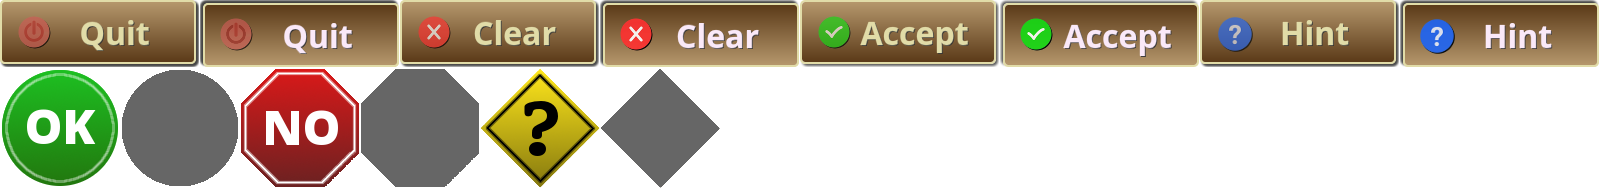
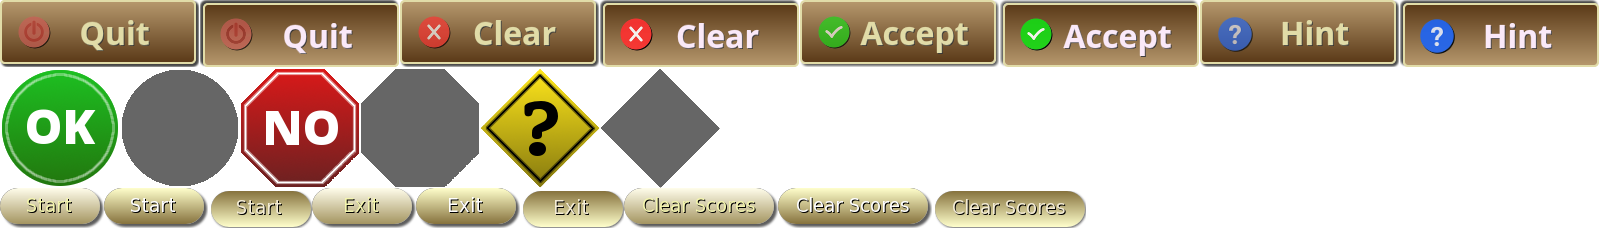
Switch title screen to TTF fonts

diff --git a/src/gfx.c b/src/gfx.c
@@ -810,8 +810,9 @@ gfx_display_scores() {
 
    // Show scor
    
-   fnt_print_string(screen,CURRWORD_HD_X+5+hx0,1+hy0,cwscore_s,makecol(255,255,224),-1,makecol(0,0,0));
-   fnt_print_string(screen,CURRWORD_HD_X+436+hx0,1+hy0,totscore_s,makecol(255,255,224),-1,makecol(0,0,0));
+//   fnt_print_string(screen,CURRWORD_HD_X+5+hx0,1+hy0,cwscore_s,makecol(255,255,224),-1,makecol(0,0,0));
+   fnt_print_string(screen,CURRWORD_HD_X+112+hx0,6+hy0,cwscore_s,makecol(255,255,224),-1,makecol(0,0,0));
+   fnt_print_string(screen,CURRWORD_HD_X+1094+hx0,6+hy0,totscore_s,makecol(255,255,224),-1,makecol(0,0,0));
    
    ActiveFont = compfont;
 }
@@ -1165,7 +1166,7 @@ void gfx_load_bitmaps() {
    widgethdbmp=load_bitmap(bmpf,p);
    sprintf(bmpf,"%s%cgfx%cwwbg.pcx",datadir,mysep,mysep);
    bgbmp=load_bitmap(bmpf,p);
-   sprintf(bmpf,"%s%cgfx%cwwbghd.pcx",datadir,mysep,mysep);
+   sprintf(bmpf,"%s%cgfx%cwwbghd_n.pcx",datadir,mysep,mysep);
    bghdbmp=load_bitmap(bmpf,p);
    sprintf(bmpf,"%s%cgfx%cbanner.pcx",datadir,mysep,mysep);
    banrbmp=load_bitmap(bmpf,p);
@@ -1288,6 +1289,13 @@ gfx_display_hs(int tno) {
    hline(screen,hx+20+hx0,hy+39+hy0,hx+480+hx0,makecol(250,230,64));
    hline(screen,hx+20+hx0,hy+40+hy0,hx+480+hx0,makecol(180,30,32));
 #endif
+   fnt_setactive(TTfont);
+   //   ActiveFont = TTfont;
+   TTfont->scale_w=28;
+   TTfont->scale_h=32;
+//   ActiveFont->scale_w=32;
+//   ActiveFont->scale_h=32;
+
    for(i=1;i<=nscs;i++) {
       hs_getfield(sname,tno,i,"name");
       hs_getfield(sdate,tno,i,"date");
@@ -1295,14 +1303,26 @@ gfx_display_hs(int tno) {
       txtcolor=makecol(240,230,200);
       if(tno==2 || tno==4) {
 	 hs_getfield(sdetail,tno,i,"detail");
-	 sprintf(outln,"  %2d) %-18s%-12s%-18s%4s\n",i,sname,sdetail,sdate,sscore);
+//	 sprintf(outln,"  %2d) %-18s%-12s%-18s%4s\n",i,sname,sdetail,sdate,sscore);
+	 sprintf(outln,"%2d)",i);
+	 fnt_print_string(screen,hx+24+hx0,hy+32+(i*32)+hy0,outln,txtcolor,-1,-1);
+	 fnt_print_string(screen,hx+80+hx0,hy+32+(i*32)+hy0,sname,txtcolor,-1,-1);
+	 fnt_print_string(screen,hx+280+hx0,hy+32+(i*32)+hy0,sdetail,txtcolor,-1,-1);
+	 fnt_print_string(screen,hx+640+hx0,hy+32+(i*32)+hy0,sdate,txtcolor,-1,-1);
+	 fnt_print_string(screen,hx+1080+hx0,hy+32+(i*32)+hy0,sscore,txtcolor,-1,-1);
+	 //	 fnt_print_string(screen,hx+hx0,hy+32+(i*32)+hy0,outln,txtcolor,-1,-1);
       } else {
 	 if(atoi(sscore)==totscore && totscore>0) 
 	   txtcolor=makecol(255,255,100);
-	 sprintf(outln,"  %2d) %-20s %-20s %10s\n",i,sname,sdate,sscore);
+//	 sprintf(outln,"  %2d) %-20s %-20s %10s\n",i,sname,sdate,sscore);
+	 sprintf(outln,"%2d)",i);
+	 fnt_print_string(screen,hx+24+hx0,hy+32+(i*32)+hy0,outln,txtcolor,-1,-1);
+	 fnt_print_string(screen,hx+80+hx0,hy+32+(i*32)+hy0,sname,txtcolor,-1,-1);
+	 fnt_print_string(screen,hx+480+hx0,hy+32+(i*32)+hy0,sdate,txtcolor,-1,-1);
+	 fnt_print_string(screen,hx+1080+hx0,hy+32+(i*32)+hy0,sscore,txtcolor,-1,-1);
       }
-      fnt_print_string(screen,hx+hx0,hy+32+(i*16)+hy0,outln,txtcolor,-1,-1);
-   }   
+   }
+   fnt_setactive(compfont);
    unscare_once();
 }
 
@@ -1327,32 +1347,38 @@ char gfx_title(int numtbl) {
 //   printf("title 4\n");
    wdg_install_hilight(makecol(255,255,255),KEY_TAB,KEY_ENTER,0,KEY_DOWN,KEY_LEFT,KEY_RIGHT);
 //   printf("title 5\n");
-   sprintf(vers,"Version %s   (C)2007-2018 Tony Smolar",VERSION);
-   fnt_print_string(screen,CURRWORD_HD_X+140+hx0,CURRWORD_HD_Y+140+hy0,vers,makecol(240,128,250),-1,makecol(80,32,90));
+   sprintf(vers,"Version %s    (C)2007-2018   Tony Smolar",VERSION);
+   fnt_setactive(TTfont);
+   TTfont->scale_w=20;
+   TTfont->scale_h=20;
+
+   fnt_print_string(screen,CURRWORD_HD_X+440+hx0,CURRWORD_HD_Y+140+hy0,vers,makecol(32,32,32),-1,-1);
+   fnt_print_string(screen,CURRWORD_HD_X+438+hx0,CURRWORD_HD_Y+138+hy0,vers,makecol(250,220,200),-1,-1);
+   fnt_setactive(compfont);
 #ifdef GFXBITMAP
-   mybutton.btnupbmp=widgetbmp;
-   mybutton.btndnbmp=widgetbmp;
-   mybutton.btnhlbmp=widgetbmp;
+   mybutton.btnupbmp=widgethdbmp;
+   mybutton.btndnbmp=widgethdbmp;
+   mybutton.btnhlbmp=widgethdbmp;
    // Start
-   mybutton.up_x1=0;mybutton.up_y1=51;mybutton.up_x2=58;mybutton.up_y2=23;
-   mybutton.dn_x1=0;mybutton.dn_y1=74;mybutton.dn_x2=58;mybutton.dn_y2=23;
-   mybutton.hl_x1=0;mybutton.hl_y1=97;mybutton.hl_x2=58;mybutton.hl_y2=23;
+   mybutton.up_x1=104;mybutton.up_y1=188;mybutton.up_x2=104;mybutton.up_y2=40;
+   mybutton.dn_x1=208;mybutton.dn_y1=188;mybutton.dn_x2=104;mybutton.dn_y2=40;
+   mybutton.hl_x1=0;mybutton.hl_y1=188;mybutton.hl_x2=104;mybutton.hl_y2=40;
 //   mb=add_bmp_button(50+rx0,432+ry0,108+rx0,455+ry0,mybutton,&wcb_start);
-   mb=add_bmp_button(450+hx0,972+hy0,508+hx0,995+hy0,mybutton,&wcb_start);
+   mb=add_bmp_button(450+hx0,986+hy0,554+hx0,1025+hy0,mybutton,&wcb_start);
    wdg_bind_key(mb,KEY_S,-1,1);
    // Exit
-   mybutton.up_x1=58;mybutton.up_y1=51;mybutton.up_x2=58;mybutton.up_y2=23;
-   mybutton.dn_x1=58;mybutton.dn_y1=74;mybutton.dn_x2=58;mybutton.dn_y2=23;
-   mybutton.hl_x1=58;mybutton.hl_y1=97;mybutton.hl_x2=58;mybutton.hl_y2=23;
+   mybutton.up_x1=416;mybutton.up_y1=188;mybutton.up_x2=104;mybutton.up_y2=40;
+   mybutton.dn_x1=520;mybutton.dn_y1=188;mybutton.dn_x2=104;mybutton.dn_y2=40;
+   mybutton.hl_x1=312;mybutton.hl_y1=188;mybutton.hl_x2=104;mybutton.hl_y2=40;
 //   mb=add_bmp_button(115+rx0,432+ry0,173+rx0,455+ry0,mybutton,&wcb_quit);
-   mb=add_bmp_button(515+hx0,972+hy0,573+hx0,995+hy0,mybutton,&wcb_quit);
+   mb=add_bmp_button(570+hx0,986+hy0,674+hx0,1025+hy0,mybutton,&wcb_quit);
    wdg_bind_key(mb,KEY_Q,-1,1);
    // Clear Scores
-   mybutton.up_x1=116;mybutton.up_y1=51;mybutton.up_x2=118;mybutton.up_y2=23;
-   mybutton.dn_x1=116;mybutton.dn_y1=74;mybutton.dn_x2=118;mybutton.dn_y2=23;
-   mybutton.hl_x1=116;mybutton.hl_y1=97;mybutton.hl_x2=118;mybutton.hl_y2=23;
+   mybutton.up_x1=778;mybutton.up_y1=188;mybutton.up_x2=154;mybutton.up_y2=40;
+   mybutton.dn_x1=932;mybutton.dn_y1=188;mybutton.dn_x2=154;mybutton.dn_y2=40;
+   mybutton.hl_x1=624;mybutton.hl_y1=188;mybutton.hl_x2=154;mybutton.hl_y2=40;
 //   mb=add_bmp_button(431+rx0,432+ry0,549+rx0,455+ry0,mybutton,&wcb_clearhs);
-   mb=add_bmp_button(831+hx0,972+hy0,949+hx0,995+hy0,mybutton,&wcb_clearhs);
+   mb=add_bmp_button(1452+hx0,986+hy0,1605+hx0,1025+hy0,mybutton,&wcb_clearhs);
    wdg_bind_key(mb,-1,-1,1);
 #else
    mb=add_button(50+rx0,432+ry0,106+rx0,450+ry0," Start ",&wcb_start);
